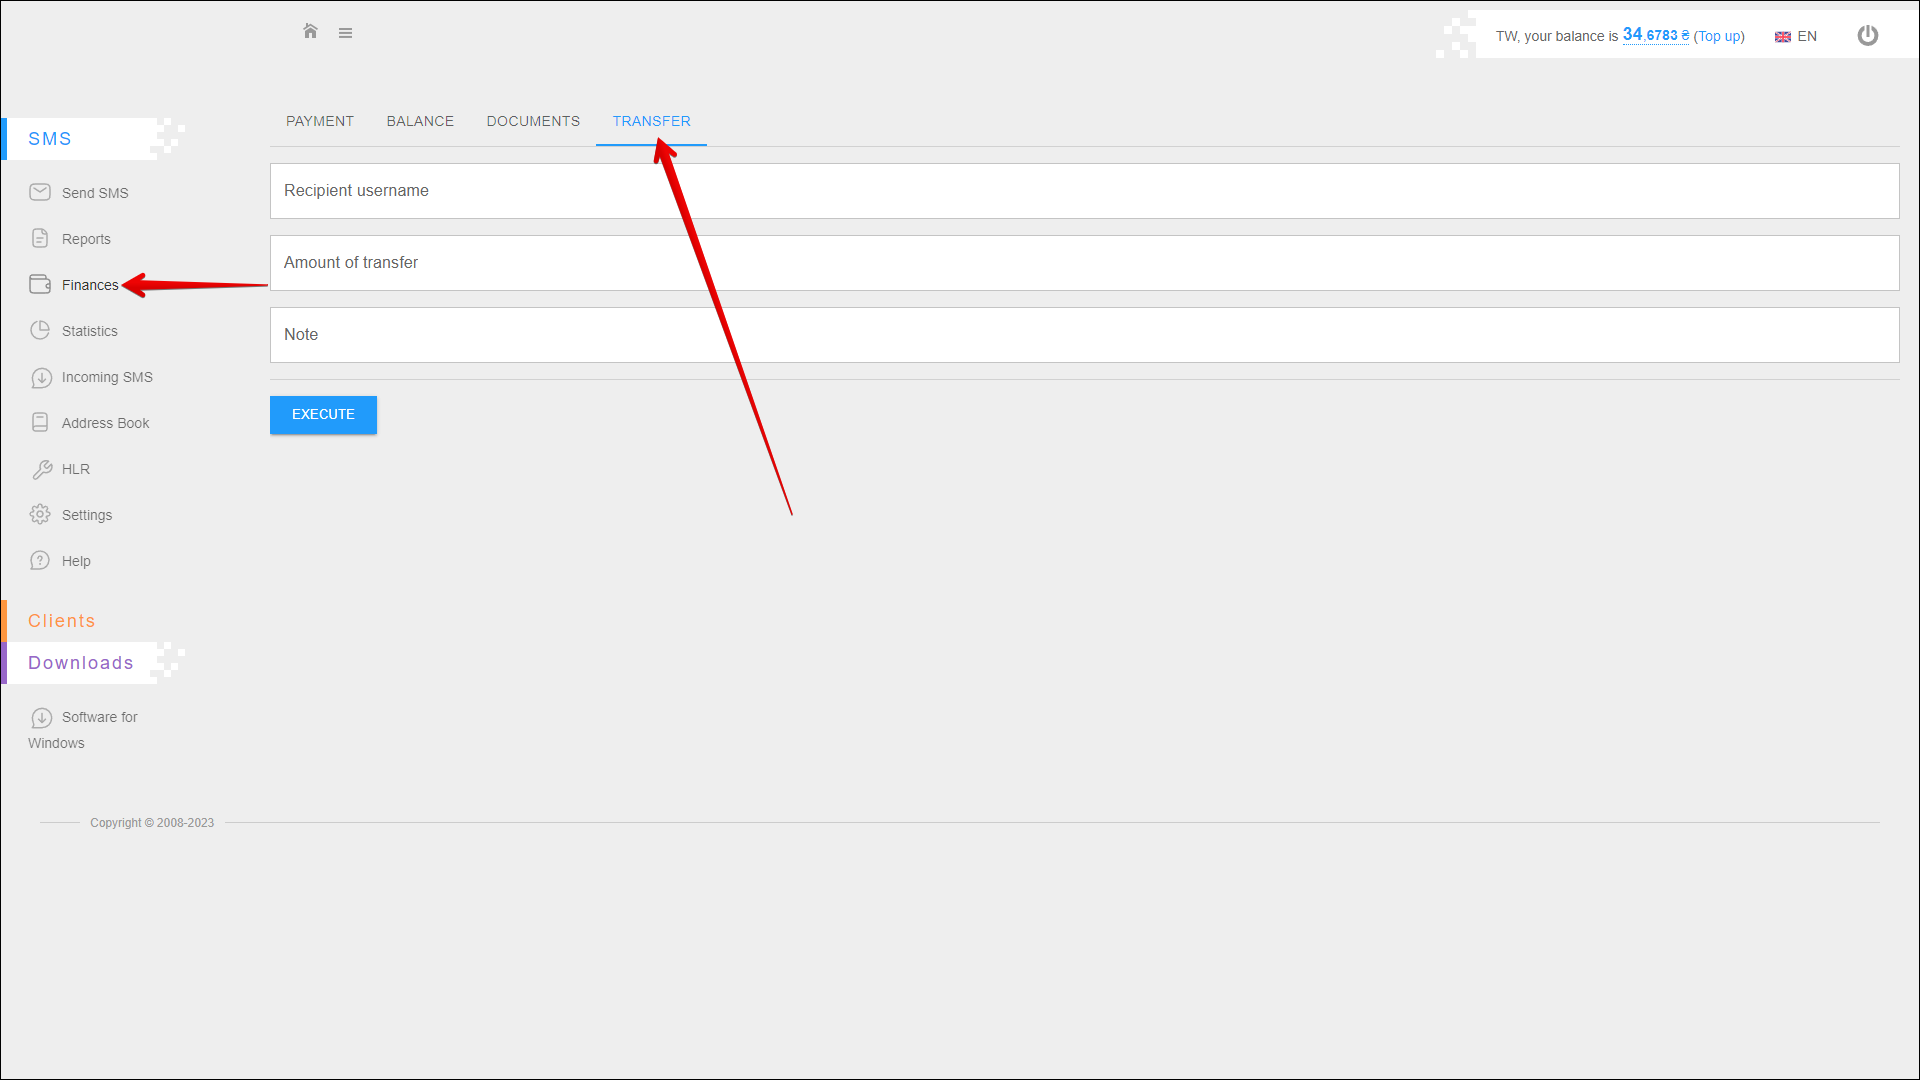
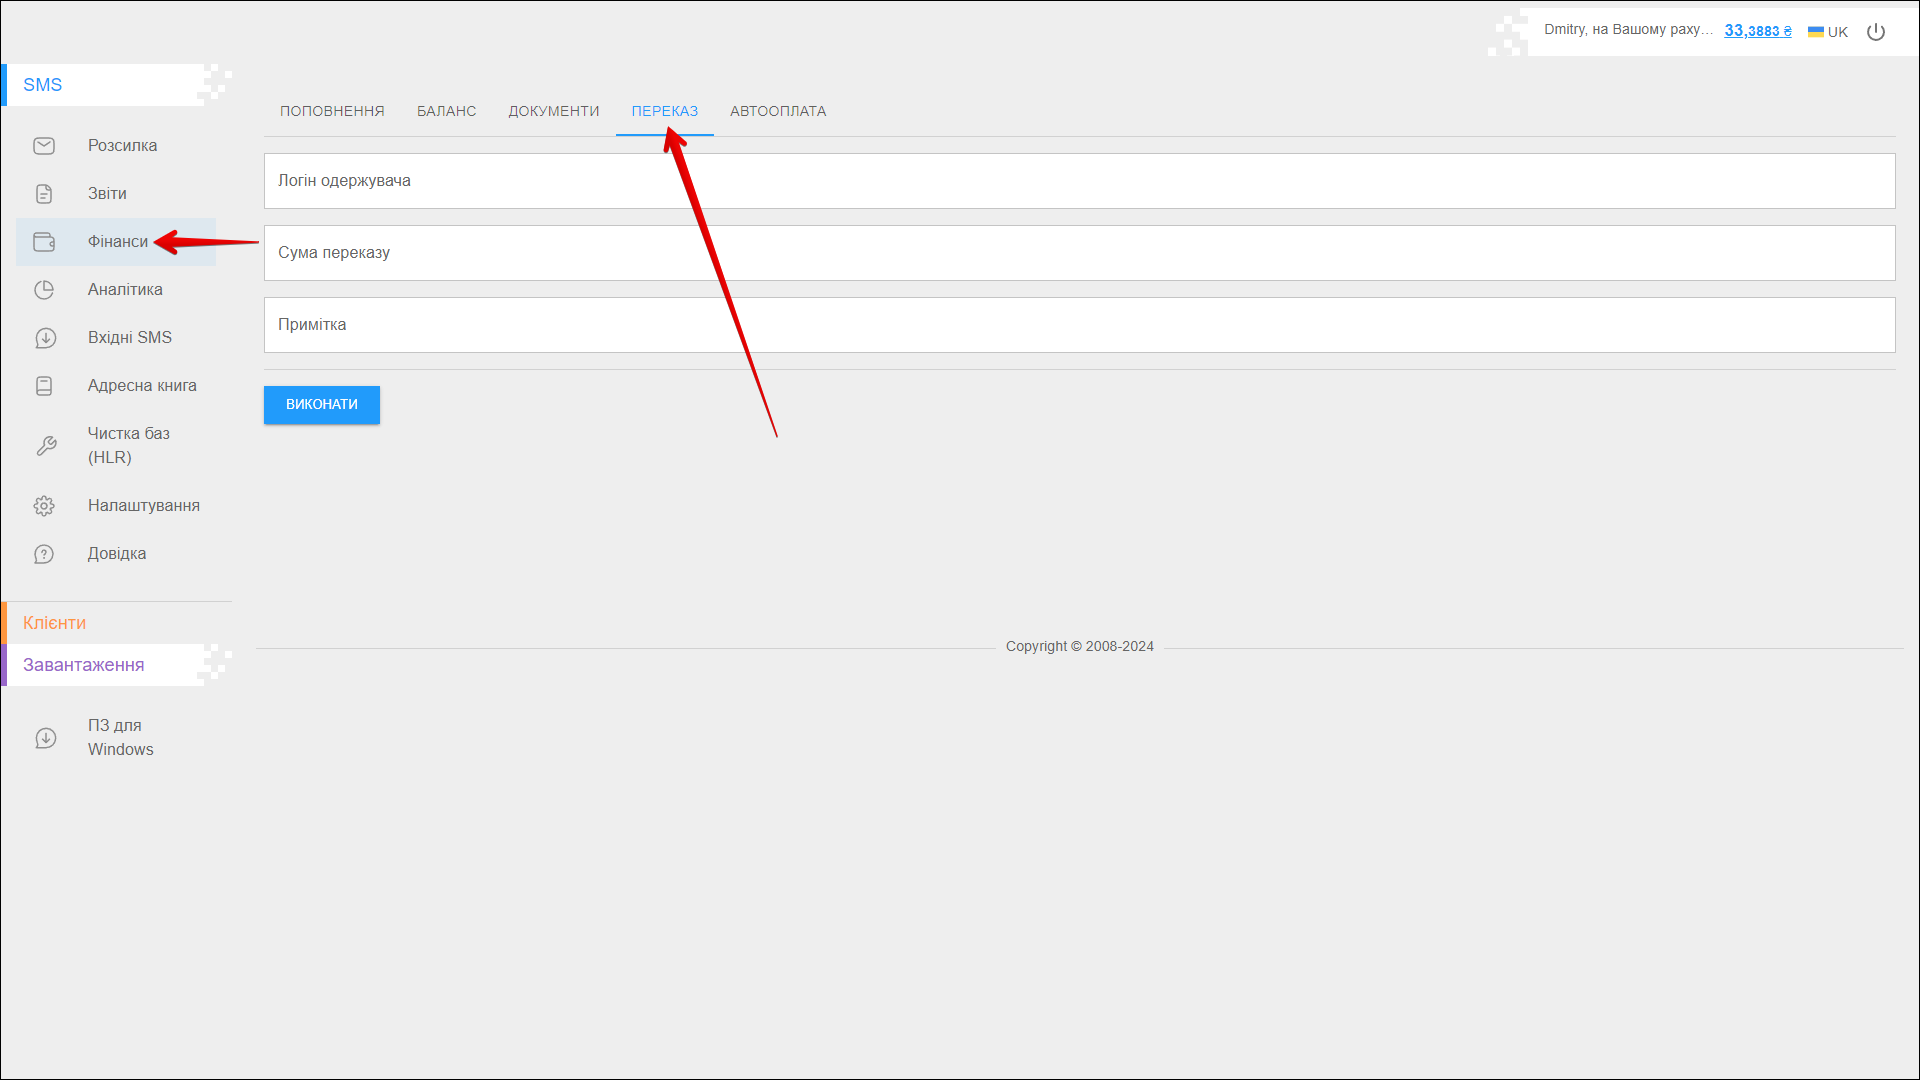
+ SMS-Фінанси-Переказ

diff --git a/sidebars.js b/sidebars.js
@@ -22,6 +22,7 @@ function client_send_sms() {
         'instruction/sms/send_sms/bulk_sms',
         'instruction/sms/send_sms/voice_mailing',
         'instruction/sms/send_sms/viber',
+        'instruction/sms/send_sms/rcs_android',
         'instruction/sms/send_sms/sender_id',
         'instruction/sms/send_sms/templates',
         'instruction/sms/send_sms/planner'
@@ -54,7 +55,8 @@ function client_finances() {
         'instruction/sms/finances/payment',
         'instruction/sms/finances/balance',
         'instruction/sms/finances/documents',
-        'instruction/sms/finances/transfer'
+        'instruction/sms/finances/transfer',
+        'instruction/sms/finances/autopay'
       ]
     }
   )
@@ -261,6 +263,7 @@ function all_eng() {
             'instruction/sms/send_sms/bulk_sms',
             'instruction/sms/send_sms/voice_mailing',
             'instruction/sms/send_sms/viber',
+            'instruction/sms/send_sms/rcs_android',
             'instruction/sms/send_sms/sender_id',
             'instruction/sms/send_sms/templates',
             'instruction/sms/send_sms/planner'
@@ -283,7 +286,8 @@ function all_eng() {
             'instruction/sms/finances/payment',
             'instruction/sms/finances/balance',
             'instruction/sms/finances/documents',
-            'instruction/sms/finances/transfer'
+            'instruction/sms/finances/transfer',
+            'instruction/sms/finances/autopay'
           ]
         },
         {
@@ -420,6 +424,7 @@ function all_ukr() {
             'instruction/sms/send_sms/bulk_sms',
             'instruction/sms/send_sms/voice_mailing',
             'instruction/sms/send_sms/viber',
+            'instruction/sms/send_sms/rcs_android',
             'instruction/sms/send_sms/sender_id',
             'instruction/sms/send_sms/templates',
             'instruction/sms/send_sms/planner'
@@ -442,7 +447,8 @@ function all_ukr() {
             'instruction/sms/finances/payment',
             'instruction/sms/finances/balance',
             'instruction/sms/finances/documents',
-            'instruction/sms/finances/transfer'
+            'instruction/sms/finances/transfer',
+            'instruction/sms/finances/autopay'
           ]
         },
         {

diff --git a/i18n/uk/docusaurus-plugin-content-docs/current/instruction/sms/finances/transfer.md b/i18n/uk/docusaurus-plugin-content-docs/current/instruction/sms/finances/transfer.md
@@ -3,3 +3,23 @@ id: transfer
 title: Переказ
 slug: /transfer
 ---
+
+На цій вкладці ви можете переказати кошти зі свого балансу на баланс іншого користувача.
+
+Щоб відкрити цю вкладку, виберіть **SMS** → **Фінанси** у боковому меню та оберіть вкладку **ПЕРЕКАЗ** tab.
+
+![image1](/img/uk/sms_finances_transfer/image1.png)
+
+## Виконання переказу
+
+Щоб здійснити переказ коштів, виконайте наведені нижче дії:
+
+|  №  | Дія |
+| :-: | --- |
+| 1 | Введіть **Логін одержувача** (номер телефону, наприклад 380501234567) |
+| 2 | Вкажіть **Суму переказу** (наприклад 50 або 49.99) |
+| 3 | Додайте **Примітку** до переказу |
+
+Натисніть **ВИКОНАТИ**, щоб здійснити переказ коштів.
+
+![image2](/img/uk/sms_finances_transfer/image2.png)

diff --git a/docs/instruction/sms/finances/transfer.md b/docs/instruction/sms/finances/transfer.md
@@ -17,7 +17,7 @@ To perform a fund transfer, follow the steps below:
 |  №  | Action |
 | :-: | ------ |
 | 1 | Enter the **recipient's username** (phone number, for example 380501234567) |
-| 2 | Enter the **amount of transfer** ( for example 50 or 49.99) |
+| 2 | Enter the **amount of transfer** (for example 50 or 49.99) |
 | 3 | Add a **note** to the transfer |
 
 Press **EXECUTE** to perform a fund transfer.

diff --git a/i18n/uk/docusaurus-plugin-content-docs/current/instruction/sms/finances/autopay.md b/i18n/uk/docusaurus-plugin-content-docs/current/instruction/sms/finances/autopay.md
@@ -1,0 +1,5 @@
+---
+id: autopay
+title: Автооплата
+slug: /autopay
+---

diff --git a/docs/instruction/sms/send_sms/rcs_android.md b/docs/instruction/sms/send_sms/rcs_android.md
@@ -1,0 +1,5 @@
+---
+id: rcs_android
+title: RCS Android
+slug: /rcs_android
+---

diff --git a/i18n/uk/docusaurus-plugin-content-docs/current/instruction/sms/send_sms/rcs_android.md b/i18n/uk/docusaurus-plugin-content-docs/current/instruction/sms/send_sms/rcs_android.md
@@ -1,0 +1,5 @@
+---
+id: rcs_android
+title: RCS Android
+slug: /rcs_android
+---

diff --git a/docs/instruction/sms/finances/autopay.md b/docs/instruction/sms/finances/autopay.md
@@ -1,0 +1,5 @@
+---
+id: autopay
+title: Autopay
+slug: /autopay
+---
